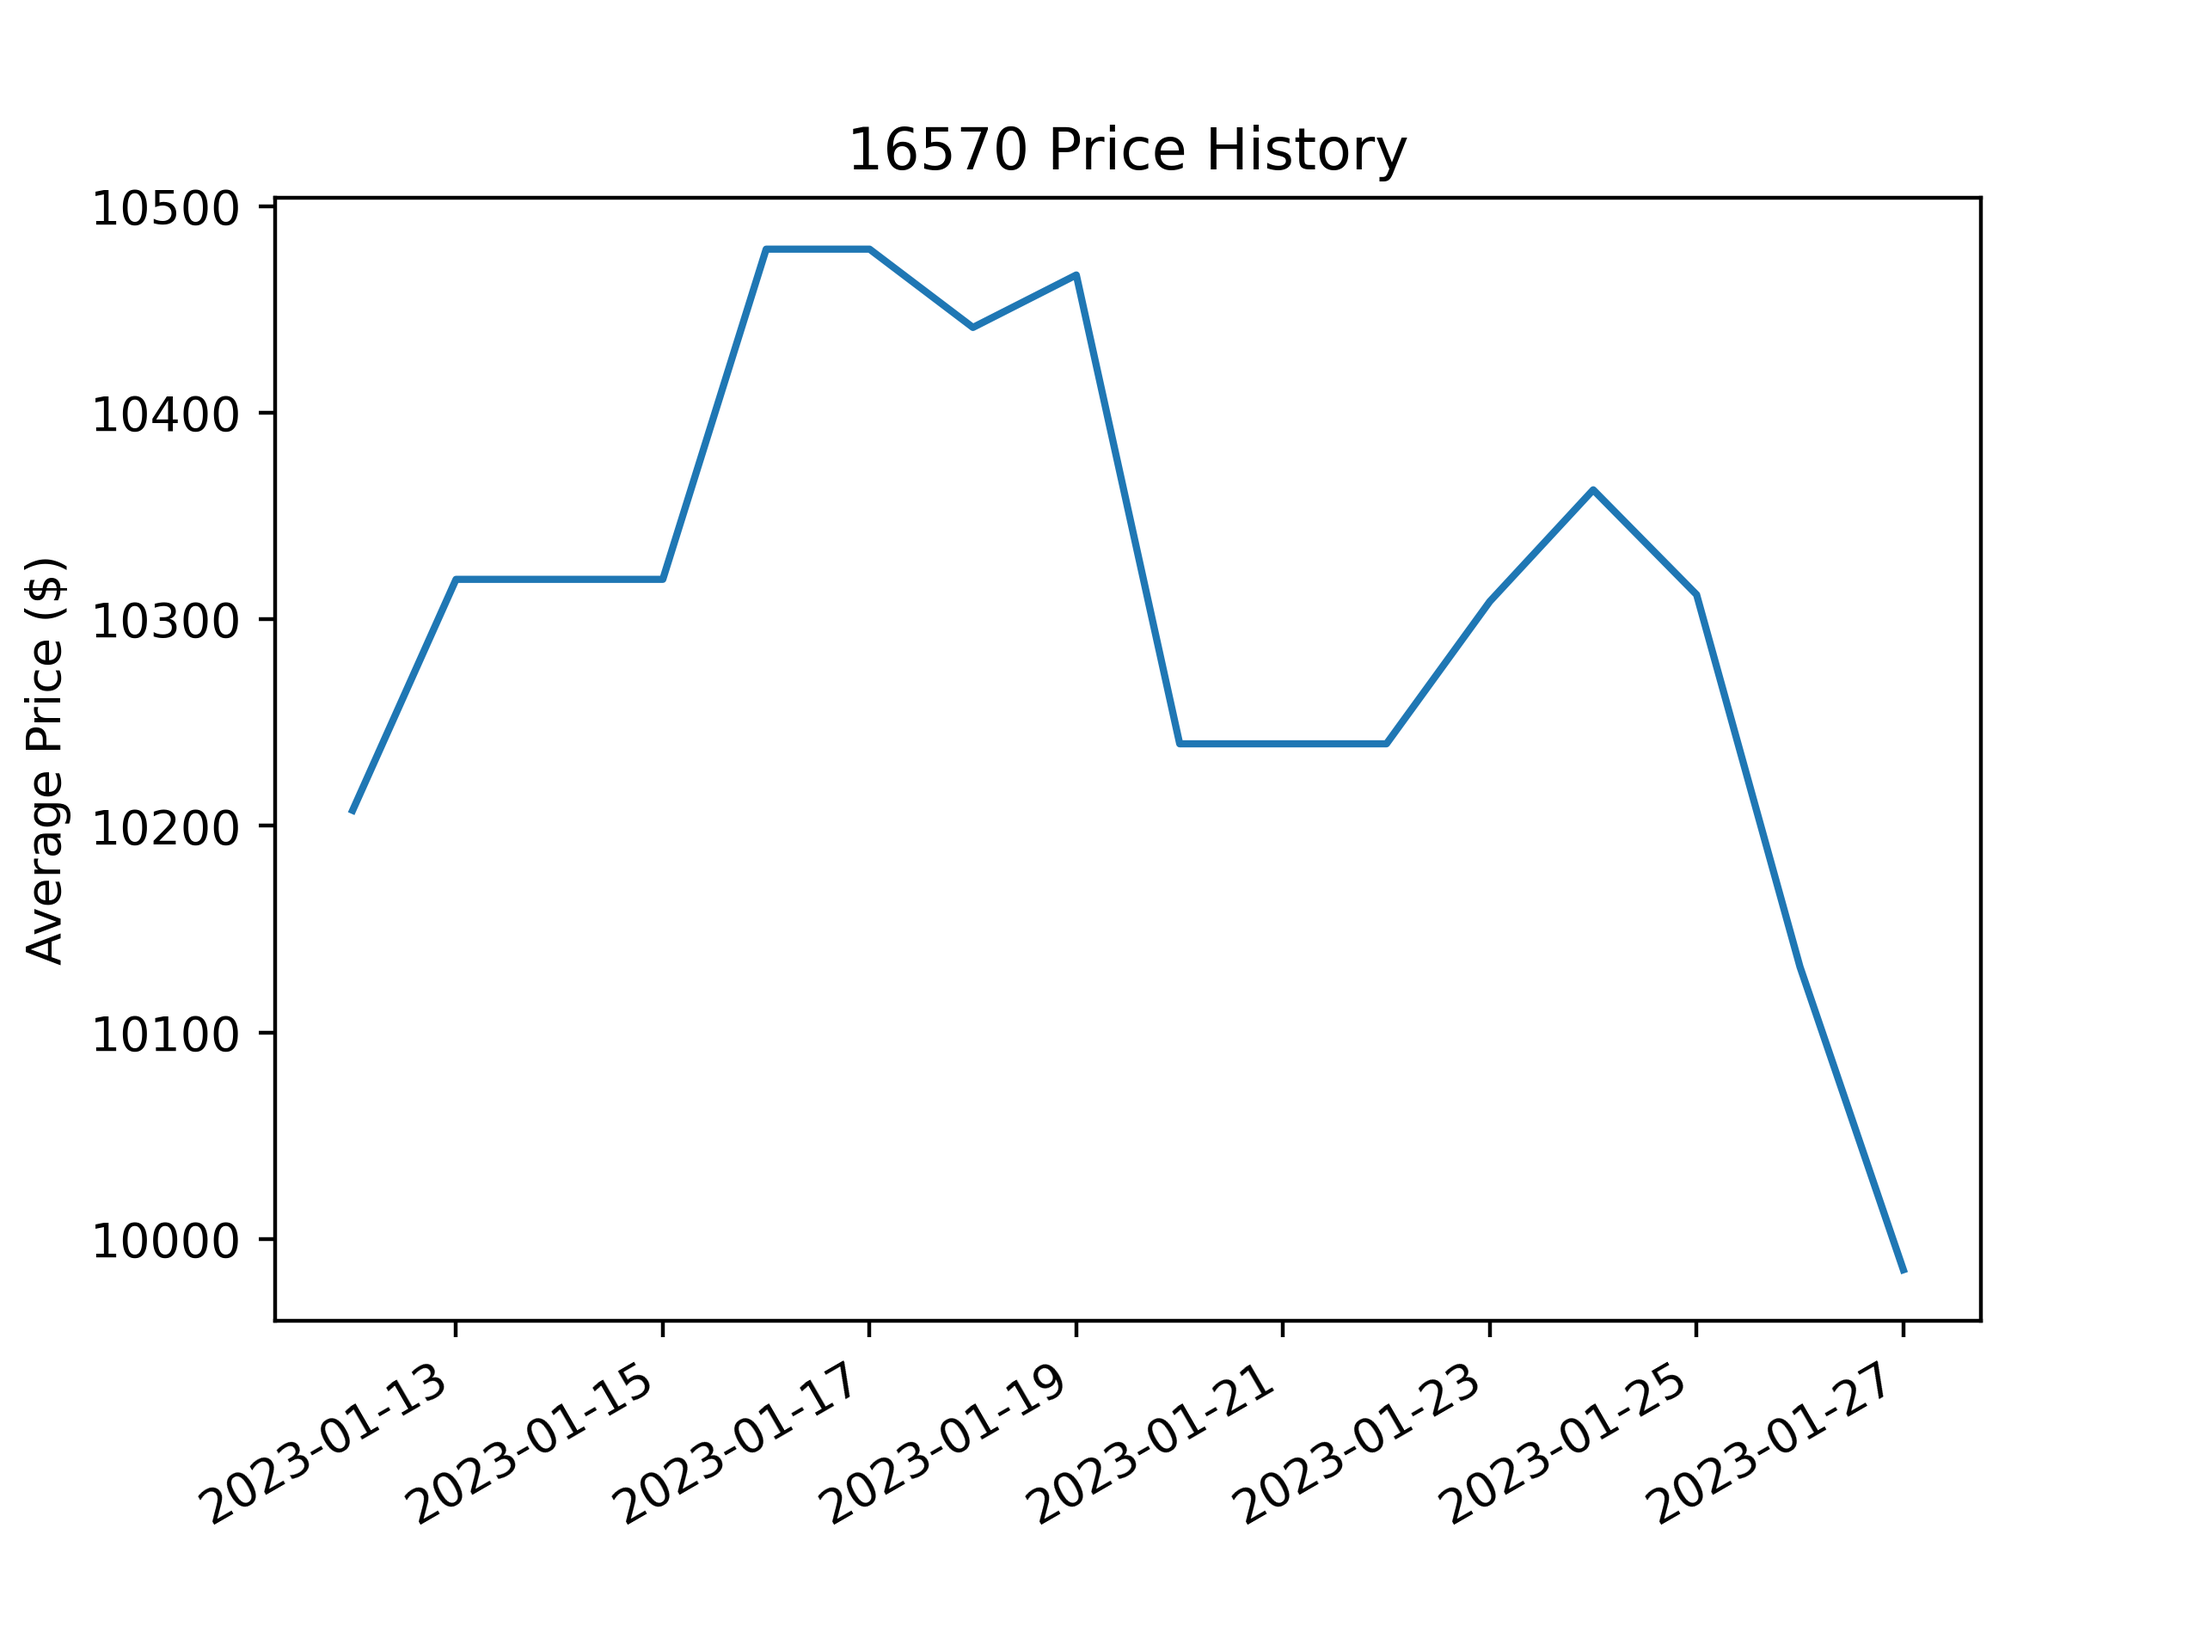
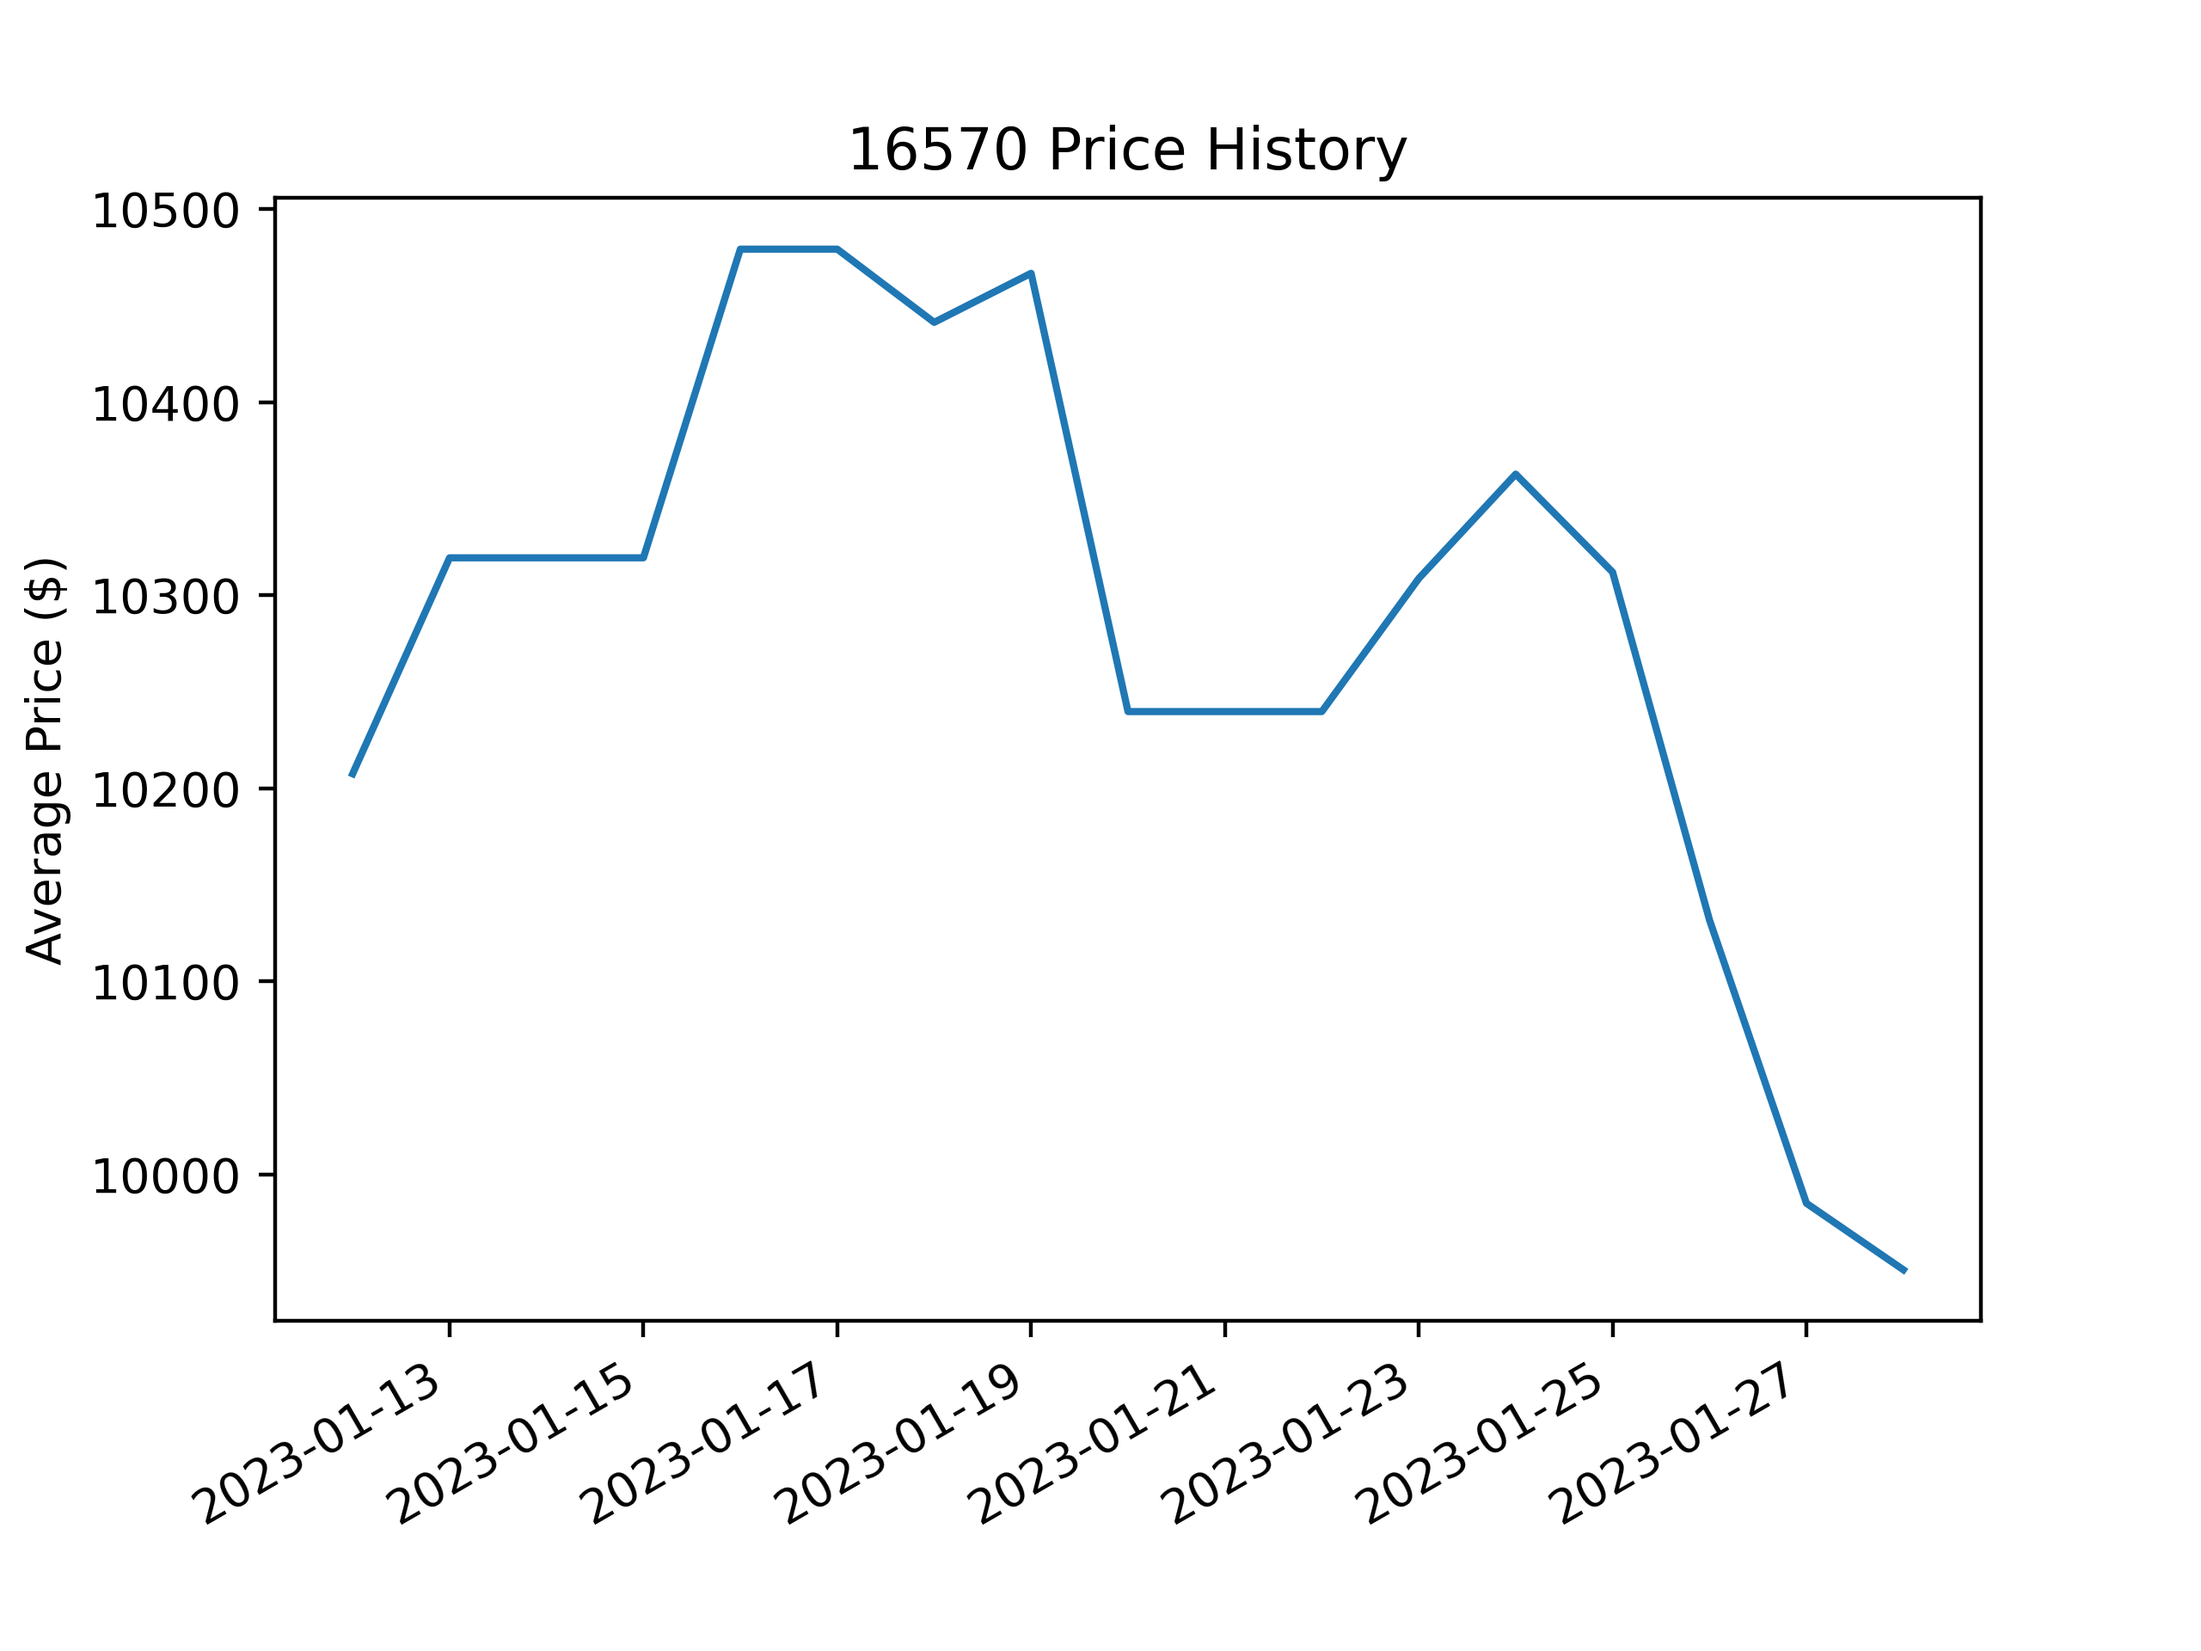
today's prices

diff --git a/all-prices/16570.html b/all-prices/16570.html
@@ -1,1 +1,1 @@
-<!DOCTYPE html><html><body><h1>All listings sorted in ascending order by price</h1><div> <a href="https://www.thewatchbox.com/shop/4686614.html" target="_blank" rel="noopener noreferrer">$8350</a> </div><div> <a href="https://www.thewatchbox.com/shop/4706743.html" target="_blank" rel="noopener noreferrer">$8450</a> </div><div> <a href="https://www.crownandcaliber.com/products/rolex-explorer-ii-16570-10-10-rol-ekct7a" target="_blank" rel="noopener noreferrer">$8825</a> </div><div> <a href="https://www.bobswatches.com//rolex-explorer-ii-16570-polar-dial.html" target="_blank" rel="noopener noreferrer">$8895</a> </div><div> <a href="https://www.bobswatches.com//mens-rolex-explorer-ii-16570-stainless-steel.html" target="_blank" rel="noopener noreferrer">$8895</a> </div><div> <a href="https://mandbwatches.com/product/rolex-explorer-ii-40mm-16570-stainless-steel-polar-white-dial-w-papers-unpolished-2/" target="_blank" rel="noopener noreferrer">$8950.0</a> </div><div> <a href="https://www.bobswatches.com//mens-rolex-explorer-ii-ref-16570-white-polar-dial.html" target="_blank" rel="noopener noreferrer">$8995</a> </div><div> <a href="https://www.watchfinder.com/Rolex/Explorer II/16570/1780/item/230008" target="_blank" rel="noopener noreferrer">$9070</a> </div><div> <a href="https://www.watchfinder.com/Rolex/Explorer II/16570/1780/item/236074" target="_blank" rel="noopener noreferrer">$9195</a> </div><div> <a href="https://www.bobswatches.com//rolex-explorer-ii-16570-white-polar-dial.html" target="_blank" rel="noopener noreferrer">$9195</a> </div><div> <a href="https://www.crownandcaliber.com/products/rolex-explorer-ii-16570-10-10-rol-dt7ba1" target="_blank" rel="noopener noreferrer">$9225</a> </div><div> <a href="https://davidsw.com/shop/watch/rolex/rolex-16570-explorer-ii-with-white-dial-80/" target="_blank" rel="noopener noreferrer">$9275.0</a> </div><div> <a href="https://www.watchfinder.com/Rolex/Explorer II/16570/1780/item/232242" target="_blank" rel="noopener noreferrer">$9365</a> </div><div> <a href="https://www.thewatchbox.com/shop/4652947.html" target="_blank" rel="noopener noreferrer">$9450</a> </div><div> <a href="https://www.crownandcaliber.com/products/rolex-explorer-ii-16570-10-10-rol-t6d7yb" target="_blank" rel="noopener noreferrer">$9600</a> </div><div> <a href="https://www.crownandcaliber.com/products/rolex-explorer-ii-16570-10-10-rol-40mq2n" target="_blank" rel="noopener noreferrer">$9600</a> </div><div> <a href="https://www.crownandcaliber.com/products/rolex-explorer-ii-16570-10-10-rol-rcg6ap" target="_blank" rel="noopener noreferrer">$9750</a> </div><div> <a href="https://aiswatches.com/rolex-polar-explorer-ii-16570-p-serial-white-dial-box-papers-rsc-serviced/" target="_blank" rel="noopener noreferrer">$9775.0</a> </div><div> <a href="https://aiswatches.com/rolex-polar-explorer-ii-16570-y-serial-white-dial-box-paper-1/" target="_blank" rel="noopener noreferrer">$9775.0</a> </div><div> <a href="https://mandbwatches.com/product/rolex-explorer-ii-40mm-16570-stainless-steel-polar-white-dial-w-papers-unpolished/" target="_blank" rel="noopener noreferrer">$9950.0</a> </div><div> <a href="https://www.crownandcaliber.com/products/rolex-explorer-ii-16570-10-10-rol-ehvf0k" target="_blank" rel="noopener noreferrer">$10000</a> </div><div> <a href="https://www.crownandcaliber.com/products/rolex-explorer-ii-16570-10-10-rol-xm8dgq" target="_blank" rel="noopener noreferrer">$10150</a> </div><div> <a href="https://www.watchfinder.com/Rolex/Explorer II/16570/1780/item/238999" target="_blank" rel="noopener noreferrer">$10455</a> </div><div> <a href="https://www.watchfinder.com/Rolex/Explorer II/16570/1780/item/233065" target="_blank" rel="noopener noreferrer">$10530</a> </div><div> <a href="https://www.watchfinder.com/Rolex/Explorer II/16570/1780/item/230050" target="_blank" rel="noopener noreferrer">$10680</a> </div><div> <a href="https://aiswatches.com/rolex-polar-explorer-ii-16570-v-serial-white-dial-3186-movement-box-papers/" target="_blank" rel="noopener noreferrer">$10975.0</a> </div><div> <a href="https://aiswatches.com/rolex-polar-explorer-ii-16570-m-serial-white-dial-3186-movement-box-papers/" target="_blank" rel="noopener noreferrer">$10975.0</a> </div><div> <a href="https://www.bobswatches.com//rolex-explorer-ii-16570-white-dial-watch.html" target="_blank" rel="noopener noreferrer">$10995</a> </div><div> <a href="https://www.watchfinder.com/Rolex/Explorer II/16570/1780/item/239520" target="_blank" rel="noopener noreferrer">$11030</a> </div><div> <a href="https://www.watchfinder.com/Rolex/Explorer II/16570/1780/item/216068" target="_blank" rel="noopener noreferrer">$11030</a> </div><div> <a href="https://www.watchfinder.com/Rolex/Explorer II/16570/1780/item/231123" target="_blank" rel="noopener noreferrer">$11060</a> </div><div> <a href="https://www.watchfinder.com/Rolex/Explorer II/16570/1780/item/235967" target="_blank" rel="noopener noreferrer">$11235</a> </div><div> <a href="https://www.watchfinder.com/Rolex/Explorer II/16570/1780/item/238727" target="_blank" rel="noopener noreferrer">$11550</a> </div><div> <a href="https://www.watchfinder.com/Rolex/Explorer II/16570/1780/item/229673" target="_blank" rel="noopener noreferrer">$11550</a> </div><div> <a href="https://davidsw.com/shop/watch/rolex/rolex-16570-explorer-ii-with-white-dial-86/" target="_blank" rel="noopener noreferrer">$12675.0</a> </div></body></html>
+<!DOCTYPE html><html><body><h1>All listings sorted in ascending order by price</h1><div> <a href="https://www.thewatchbox.com/shop/4686614.html" target="_blank" rel="noopener noreferrer">$8350</a> </div><div> <a href="https://www.thewatchbox.com/shop/4706743.html" target="_blank" rel="noopener noreferrer">$8450</a> </div><div> <a href="https://www.watchfinder.com/Rolex/Explorer II/16570/1780/item/234124" target="_blank" rel="noopener noreferrer">$8745</a> </div><div> <a href="https://www.crownandcaliber.com/products/rolex-explorer-ii-16570-10-10-rol-ekct7a" target="_blank" rel="noopener noreferrer">$8825</a> </div><div> <a href="https://www.bobswatches.com//rolex-explorer-ii-16570-polar-dial.html" target="_blank" rel="noopener noreferrer">$8895</a> </div><div> <a href="https://www.bobswatches.com//mens-rolex-explorer-ii-16570-stainless-steel.html" target="_blank" rel="noopener noreferrer">$8895</a> </div><div> <a href="https://mandbwatches.com/product/rolex-explorer-ii-40mm-16570-stainless-steel-polar-white-dial-w-papers-unpolished-2/" target="_blank" rel="noopener noreferrer">$8950.0</a> </div><div> <a href="https://www.bobswatches.com//mens-rolex-explorer-ii-ref-16570-white-polar-dial.html" target="_blank" rel="noopener noreferrer">$8995</a> </div><div> <a href="https://www.watchfinder.com/Rolex/Explorer II/16570/1780/item/230008" target="_blank" rel="noopener noreferrer">$9070</a> </div><div> <a href="https://www.watchfinder.com/Rolex/Explorer II/16570/1780/item/236074" target="_blank" rel="noopener noreferrer">$9195</a> </div><div> <a href="https://www.bobswatches.com//rolex-explorer-ii-16570-white-polar-dial.html" target="_blank" rel="noopener noreferrer">$9195</a> </div><div> <a href="https://www.crownandcaliber.com/products/rolex-explorer-ii-16570-10-10-rol-dt7ba1" target="_blank" rel="noopener noreferrer">$9225</a> </div><div> <a href="https://davidsw.com/shop/watch/rolex/rolex-16570-explorer-ii-with-white-dial-80/" target="_blank" rel="noopener noreferrer">$9275.0</a> </div><div> <a href="https://www.watchfinder.com/Rolex/Explorer II/16570/1780/item/232242" target="_blank" rel="noopener noreferrer">$9365</a> </div><div> <a href="https://www.thewatchbox.com/shop/4652947.html" target="_blank" rel="noopener noreferrer">$9450</a> </div><div> <a href="https://www.crownandcaliber.com/products/rolex-explorer-ii-16570-10-10-rol-t6d7yb" target="_blank" rel="noopener noreferrer">$9600</a> </div><div> <a href="https://www.crownandcaliber.com/products/rolex-explorer-ii-16570-10-10-rol-40mq2n" target="_blank" rel="noopener noreferrer">$9600</a> </div><div> <a href="https://www.crownandcaliber.com/products/rolex-explorer-ii-16570-10-10-rol-rcg6ap" target="_blank" rel="noopener noreferrer">$9750</a> </div><div> <a href="https://aiswatches.com/rolex-polar-explorer-ii-16570-p-serial-white-dial-box-papers-rsc-serviced/" target="_blank" rel="noopener noreferrer">$9775.0</a> </div><div> <a href="https://aiswatches.com/rolex-polar-explorer-ii-16570-y-serial-white-dial-box-paper-1/" target="_blank" rel="noopener noreferrer">$9775.0</a> </div><div> <a href="https://mandbwatches.com/product/rolex-explorer-ii-40mm-16570-stainless-steel-polar-white-dial-w-papers-unpolished/" target="_blank" rel="noopener noreferrer">$9950.0</a> </div><div> <a href="https://www.crownandcaliber.com/products/rolex-explorer-ii-16570-10-10-rol-ehvf0k" target="_blank" rel="noopener noreferrer">$10000</a> </div><div> <a href="https://www.crownandcaliber.com/products/rolex-explorer-ii-16570-10-10-rol-xm8dgq" target="_blank" rel="noopener noreferrer">$10150</a> </div><div> <a href="https://www.watchfinder.com/Rolex/Explorer II/16570/1780/item/238999" target="_blank" rel="noopener noreferrer">$10455</a> </div><div> <a href="https://www.watchfinder.com/Rolex/Explorer II/16570/1780/item/233065" target="_blank" rel="noopener noreferrer">$10530</a> </div><div> <a href="https://www.watchfinder.com/Rolex/Explorer II/16570/1780/item/230050" target="_blank" rel="noopener noreferrer">$10680</a> </div><div> <a href="https://aiswatches.com/rolex-polar-explorer-ii-16570-v-serial-white-dial-3186-movement-box-papers/" target="_blank" rel="noopener noreferrer">$10975.0</a> </div><div> <a href="https://aiswatches.com/rolex-polar-explorer-ii-16570-m-serial-white-dial-3186-movement-box-papers/" target="_blank" rel="noopener noreferrer">$10975.0</a> </div><div> <a href="https://www.bobswatches.com//rolex-explorer-ii-16570-white-dial-watch.html" target="_blank" rel="noopener noreferrer">$10995</a> </div><div> <a href="https://www.watchfinder.com/Rolex/Explorer II/16570/1780/item/239520" target="_blank" rel="noopener noreferrer">$11030</a> </div><div> <a href="https://www.watchfinder.com/Rolex/Explorer II/16570/1780/item/216068" target="_blank" rel="noopener noreferrer">$11030</a> </div><div> <a href="https://www.watchfinder.com/Rolex/Explorer II/16570/1780/item/231123" target="_blank" rel="noopener noreferrer">$11060</a> </div><div> <a href="https://www.watchfinder.com/Rolex/Explorer II/16570/1780/item/235967" target="_blank" rel="noopener noreferrer">$11235</a> </div><div> <a href="https://www.watchfinder.com/Rolex/Explorer II/16570/1780/item/238727" target="_blank" rel="noopener noreferrer">$11550</a> </div><div> <a href="https://www.watchfinder.com/Rolex/Explorer II/16570/1780/item/229673" target="_blank" rel="noopener noreferrer">$11550</a> </div><div> <a href="https://davidsw.com/shop/watch/rolex/rolex-16570-explorer-ii-with-white-dial-86/" target="_blank" rel="noopener noreferrer">$12675.0</a> </div></body></html>
